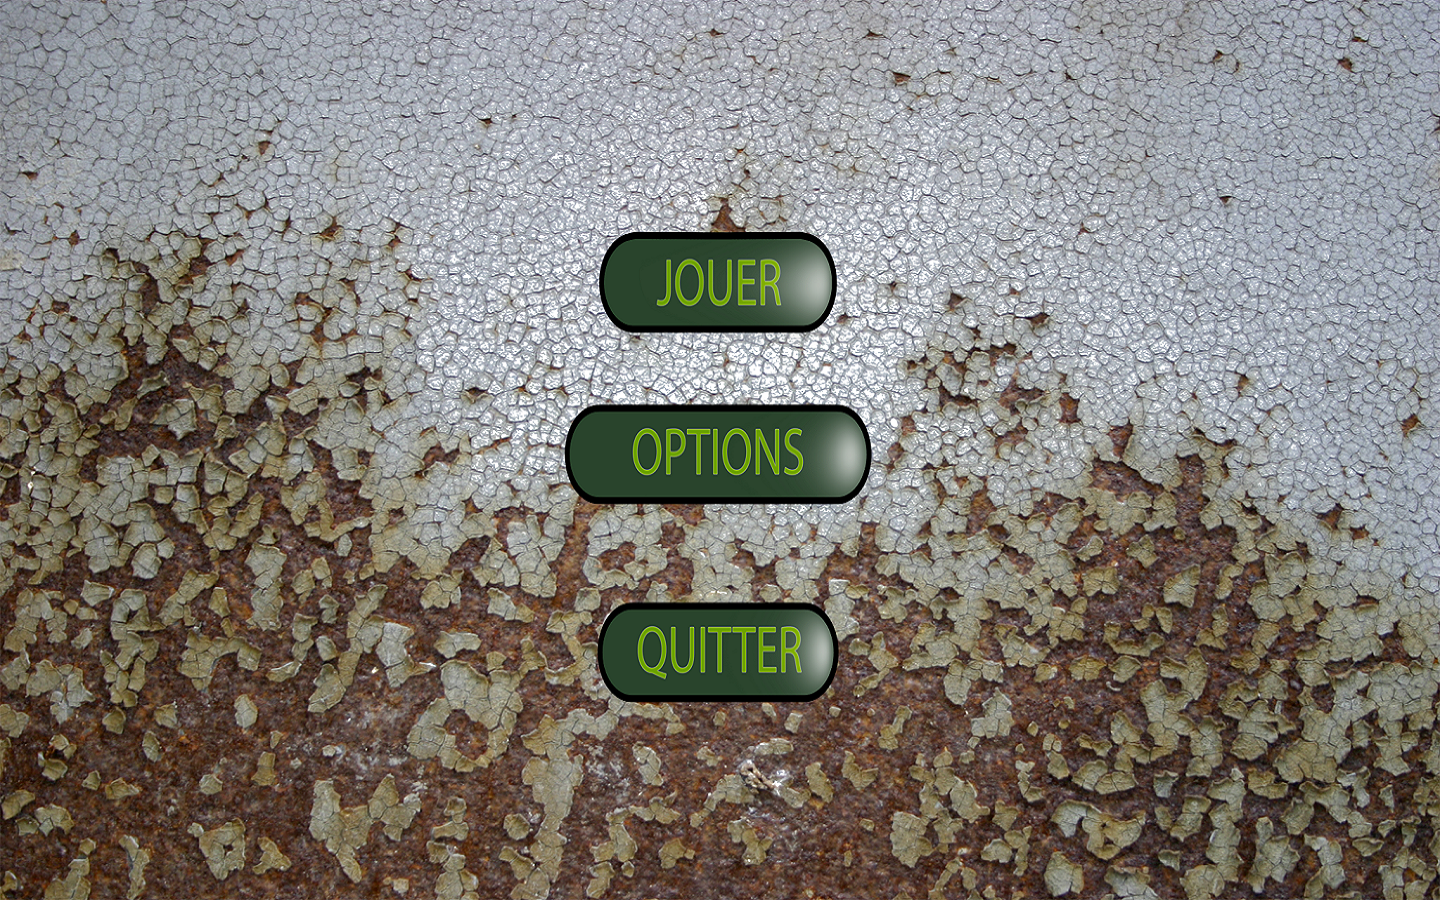
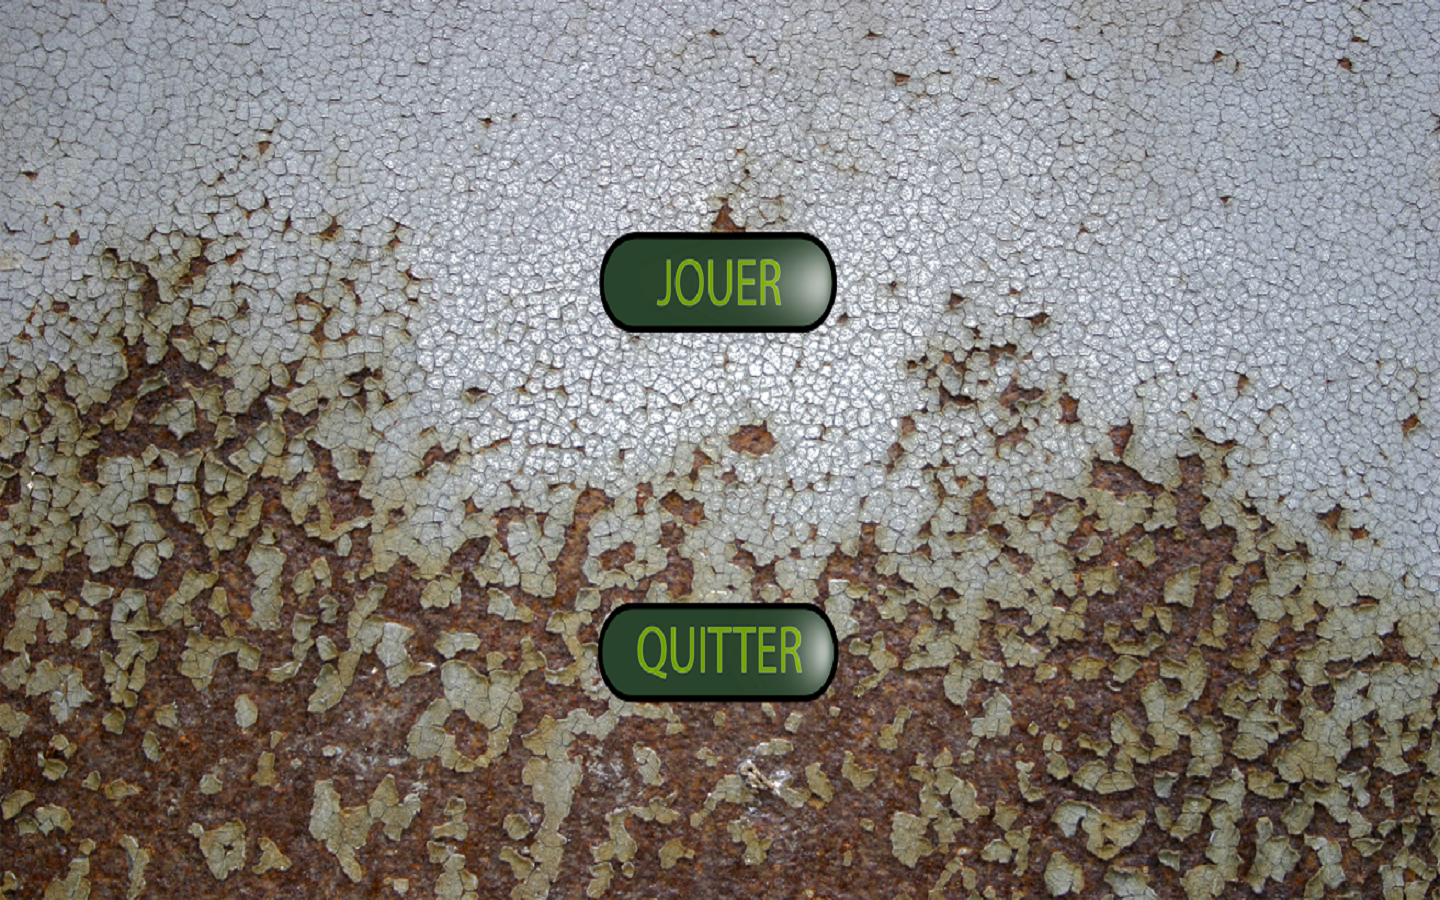
menu boutton

diff --git a/Bataille_Navale/src/Menu.java b/Bataille_Navale/src/Menu.java
@@ -18,11 +18,27 @@ public class Menu extends BasicGameState{
     @Override
     public void render(GameContainer gameContainer, StateBasedGame stateBasedGame, Graphics graphics) throws SlickException { //vous pouvez pour vous rappelez de ce qu'est render, en vous disant que render=afficher
         graphics.drawImage(imgMenu, 0, 0);
+
     }
 
     @Override
     public void update(GameContainer gameContainer, StateBasedGame stateBasedGame, int i) throws SlickException {
+        int posX = Mouse.getX();
+        int posY = Mouse.getY();
 
+        //JOUER
+        if((posX>600 && posX<838) && (posY>232 && posY<332) ){
+            if (Mouse.isButtonDown(0)){
+                System.exit(0);
+            }
+        }
+
+        //QUITTER
+        if((posX>600 && posX<838) && (posY>600 && posY<700) ){
+            if (Mouse.isButtonDown(0)){
+                stateBasedGame.enterState(3);
+            }
+        }
     }
 
     @Override
